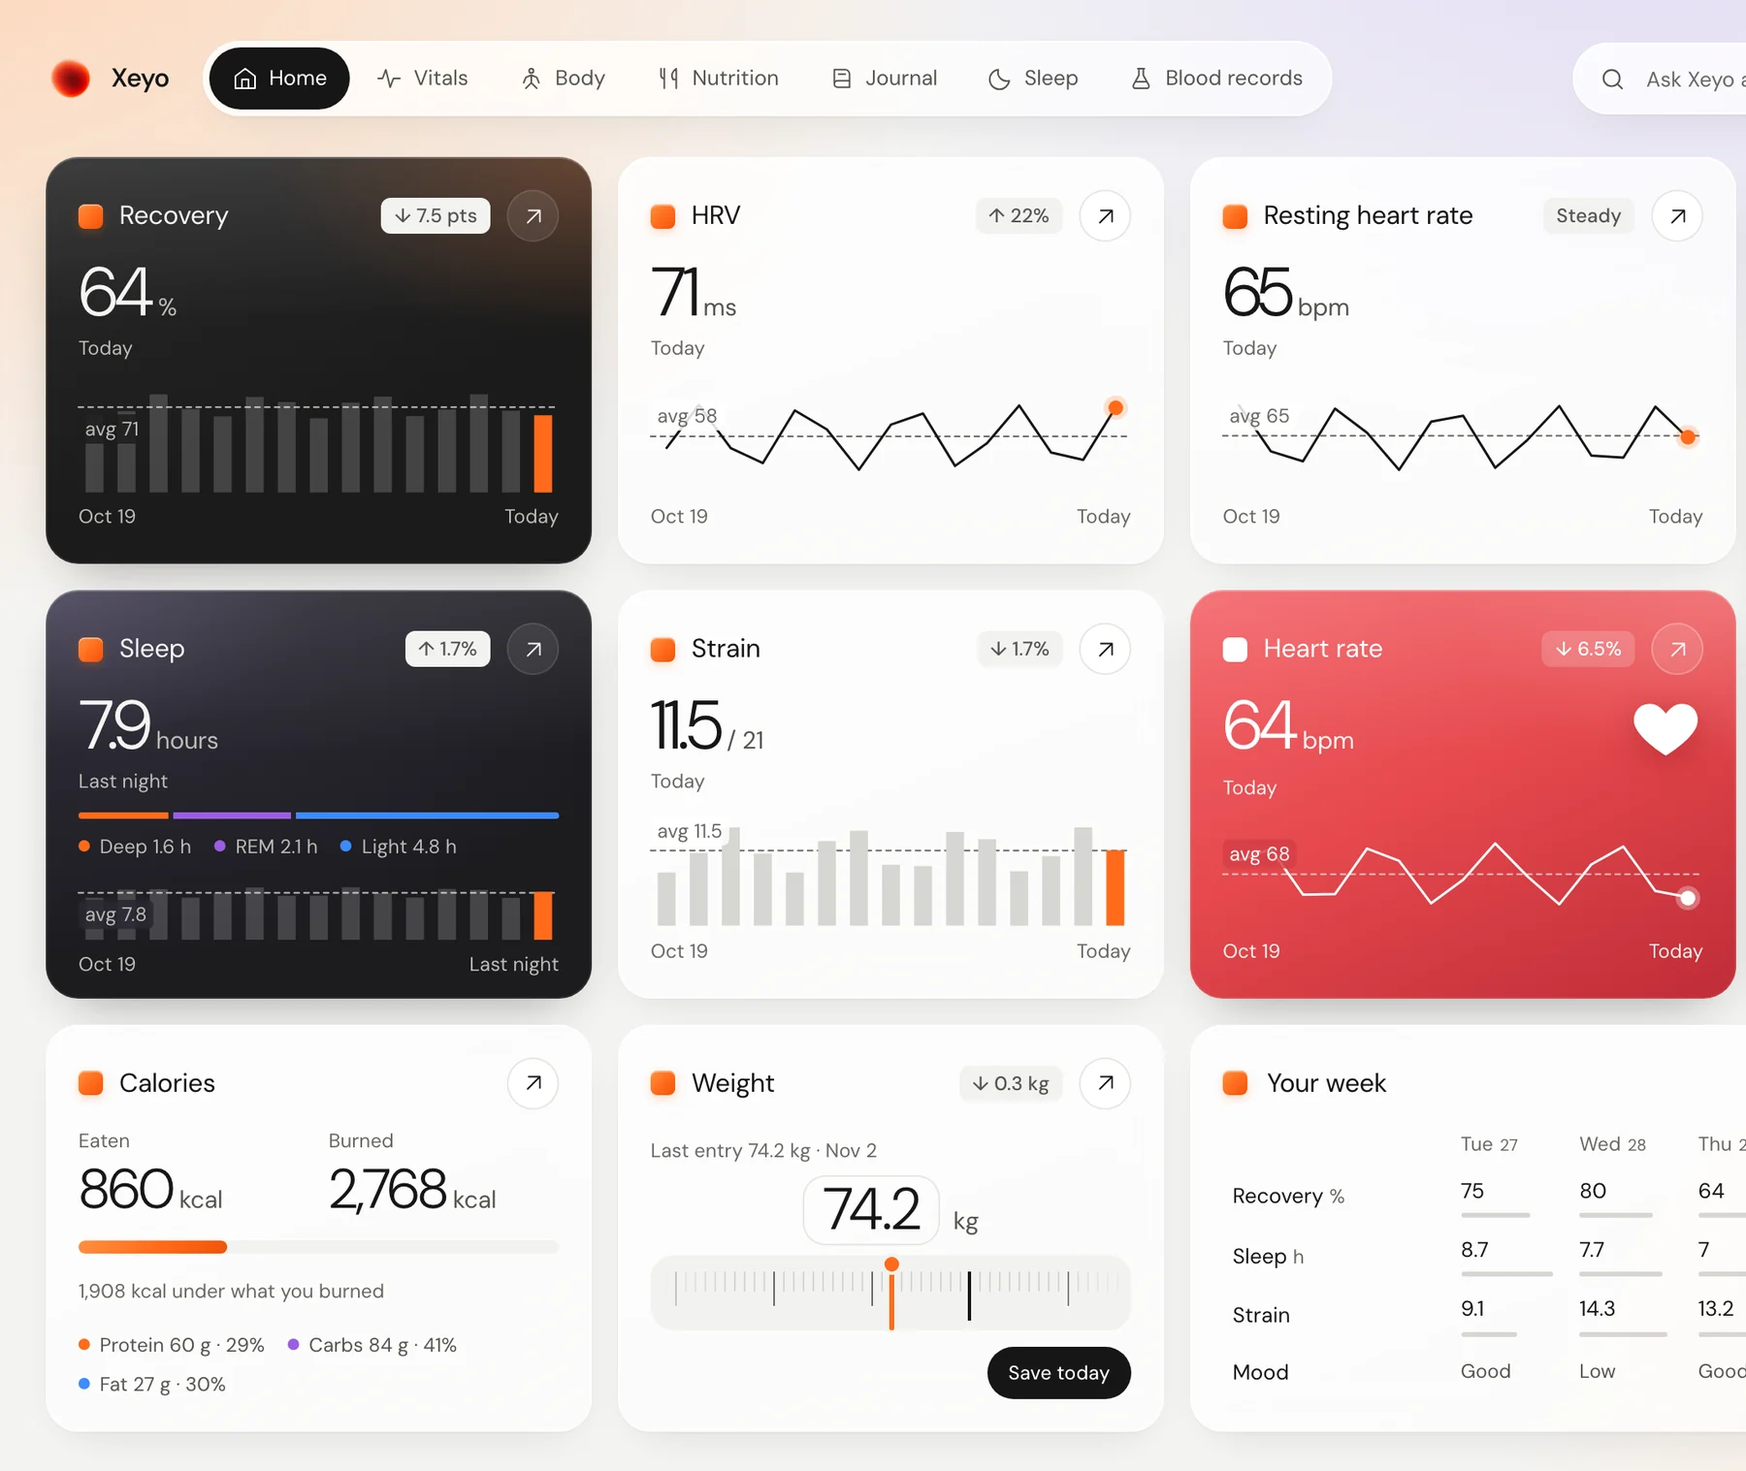
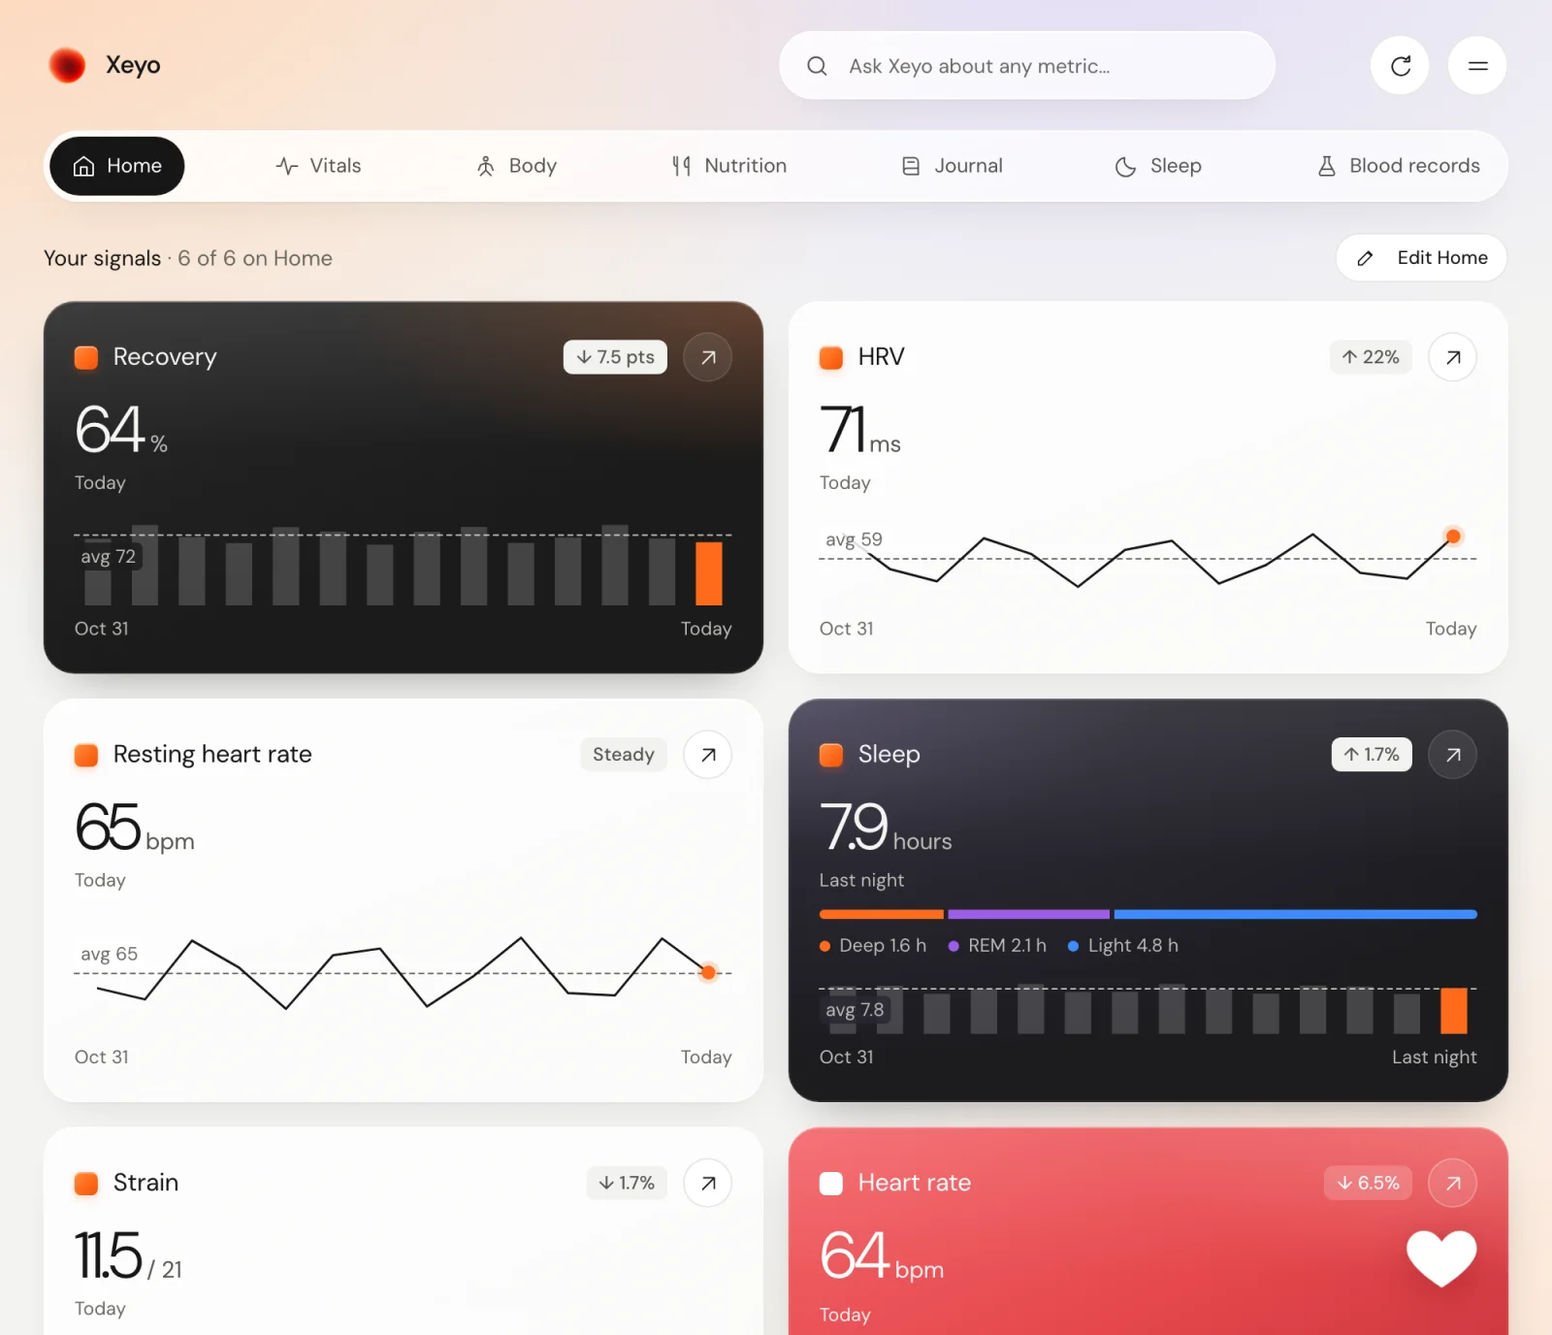
Website shows the real app: the four feature cards carry actual Xeyo screens (Home, Nutrition, Blood records, Ask Xeyo) instead of invented dark boards; example numbers match the app

diff --git a/landing/index.html b/landing/index.html
@@ -223,11 +223,11 @@ location.replace('https://app.xeyo.ai'+location.pathname+q+h)})();
             <div class="bars" aria-hidden="true"><i style="--h:.72"></i><i style="--h:.58"></i><i style="--h:.81"></i><i style="--h:.64"></i><i style="--h:.42"></i><i style="--h:.55"></i><i style="--h:.86"></i><i class="now" style="--h:.66"></i></div>
             <p class="cell-foot">Your normal is 72%</p>
           </div>
-          <div class="cell" role="img" aria-label="Example: 1,540 kcal eaten today, 97 grams of protein">
+          <div class="cell" role="img" aria-label="Example: 1,500 kcal eaten today, 102 grams of protein">
             <p class="cell-k">Eaten today</p>
-            <p class="cell-num">1,540<small>kcal</small></p>
-            <div class="meter" aria-hidden="true"><i style="--f:.56"></i></div>
-            <p class="cell-foot">97 g protein · 2,768 burned</p>
+            <p class="cell-num">1,500<small>kcal</small></p>
+            <div class="meter" aria-hidden="true"><i style="--f:.54"></i></div>
+            <p class="cell-foot">102 g protein · 2,768 burned</p>
           </div>
           <div class="cell" role="img" aria-label="Example: vitamin D 22 nanograms per millilitre, below the lab's range of 30 to 100">
             <p class="cell-k">Vitamin D</p>
@@ -293,7 +293,7 @@ location.replace('https://app.xeyo.ai'+location.pathname+q+h)})();
           <div class="chip-ui lg list">
             <p><span>Recovery</span><b>64%</b></p>
             <p><span>Sleep</span><b>7.9 h</b></p>
-            <p><span>Eaten</span><b>1,540 kcal</b></p>
+            <p><span>Eaten</span><b>1,500 kcal</b></p>
             <p><span>Vitamin D</span><b>22 ng/mL</b></p>
           </div>
         </div>
@@ -316,22 +316,9 @@ location.replace('https://app.xeyo.ai'+location.pathname+q+h)})();
           <h3 id="fh-1">Wearable data you can read at a glance</h3>
           <p>Sleep, recovery, HRV and strain, each next to your own 30-day normal, in plain words.</p>
         </div>
-        <figure class="feat-shot board lg" aria-label="Example: last night's sleep and this morning's readings">
-          <p class="board-head"><span>Last night · Monday</span><span class="tag">Example</span></p>
-          <div class="board-main">
-            <div>
-              <p class="big">7.9<small>hours asleep</small></p>
-              <p class="note">8 minutes more than your normal</p>
-              <div class="stages" aria-hidden="true"><i style="--f:.2"></i><i style="--f:.27"></i><i style="--f:.53"></i></div>
-              <ul class="legend"><li>Deep 1.6 h</li><li>REM 2.1 h</li><li>Light 4.2 h</li></ul>
-            </div>
-            <div class="nights" aria-hidden="true"><i style="--h:.78"></i><i style="--h:.62"></i><i style="--h:.84"></i><i style="--h:.7"></i><i style="--h:.55"></i><i style="--h:.9"></i><i style="--h:.74"></i><i style="--h:.8"></i><i style="--h:.66"></i><i style="--h:.88"></i><i style="--h:.72"></i><i style="--h:.6"></i><i style="--h:.82"></i><i class="now" style="--h:.86"></i></div>
-          </div>
-          <ul class="tiles3">
-            <li><span>Recovery</span><b>64%</b><em>Normal 72%</em></li>
-            <li><span>HRV</span><b>71 ms</b><em>22% above normal</em></li>
-            <li><span>Resting heart rate</span><b>65 bpm</b><em>Steady</em></li>
-          </ul>
+        <figure class="feat-shot app-shot">
+          <picture><source media="(max-width: 760px)" srcset="/img/app-home-m.webp" width="780" height="1400"><img src="/img/app-home.webp" alt="The Xeyo Home screen with example data: recovery 64%, HRV 71 ms, resting heart rate 65 bpm, 7.9 hours of sleep, strain 11.5 and heart rate 64 bpm, each with a two-week chart and its average." width="1600" height="1376" loading="lazy" decoding="async"></picture>
+          <figcaption class="tag">Example data</figcaption>
         </figure>
     </div>
   </article>
@@ -344,28 +331,9 @@ location.replace('https://app.xeyo.ai'+location.pathname+q+h)})();
           <h3 id="fh-2">The nutrition your wearable app leaves out</h3>
           <p>Describe a meal, say it or snap it. See what you ate next to what you burned.</p>
         </div>
-        <figure class="feat-shot board lg" aria-label="Example: a meal logged from one sentence, and the day's totals">
-          <p class="board-head"><span>Nutrition · today</span><span class="tag">Example</span></p>
-          <div class="board-split">
-            <div class="meal">
-              <p class="msg me">Salmon poke bowl with avocado</p>
-              <div class="logged">
-                <p class="logged-name">Salmon poke bowl</p>
-                <p class="big">680<small>kcal</small></p>
-                <ul class="macro-row"><li><b>37 g</b>Protein</li><li><b>65 g</b>Carbs</li><li><b>31 g</b>Fat</li></ul>
-              </div>
-            </div>
-            <div class="day">
-              <p class="day-k">Eaten</p><p class="big">1,540<small>kcal</small></p>
-              <div class="burn" aria-hidden="true"><i style="--f:.56"></i></div>
-              <p class="note">Burned 2,768 kcal · 1,228 under</p>
-              <ul class="macros big-macros" aria-hidden="true">
-                <li style="--w:.26"><span>Protein</span><b>97 g</b></li>
-                <li style="--w:.40"><span>Carbs</span><b>149 g</b></li>
-                <li style="--w:.35"><span>Fat</span><b>58 g</b></li>
-              </ul>
-            </div>
-          </div>
+        <figure class="feat-shot app-shot">
+          <picture><source media="(max-width: 760px)" srcset="/img/app-food-m.webp" width="780" height="1400"><img src="/img/app-food.webp" alt="The Xeyo Nutrition screen with example data: a box to describe a meal, a daily balance of 1,500 kcal with protein, carbs and fat, and a food journal of three meals." width="1600" height="1376" loading="lazy" decoding="async"></picture>
+          <figcaption class="tag">Example data</figcaption>
         </figure>
     </div>
   </article>
@@ -378,13 +346,9 @@ location.replace('https://app.xeyo.ai'+location.pathname+q+h)})();
           <h3 id="fh-3">Blood work you can actually read</h3>
           <p>Every marker against the lab's range, with how it has moved since your last test.</p>
         </div>
-        <figure class="feat-shot board lg" aria-label="Example: three blood markers against the lab's range">
-          <p class="board-head"><span>Blood results · Sep 14</span><span class="tag">Example</span></p>
-          <ul class="markers">
-            <li><div><b>Vitamin D</b><span class="flag">Below range</span></div><p class="big">22<small>ng/mL</small></p><div class="range" aria-hidden="true"><i style="--at:.06"></i></div><p class="note">Lab range 30 to 100 · first result</p></li>
-            <li><div><b>Ferritin</b><span class="ok-t">In range</span></div><p class="big">84<small>ng/mL</small></p><div class="range" aria-hidden="true"><i style="--at:.17"></i></div><p class="note">Lab range 30 to 400 · up 23 since March</p></li>
-            <li><div><b>HbA1c</b><span class="ok-t">In range</span></div><p class="big">5.2<small>%</small></p><div class="range" aria-hidden="true"><i style="--at:.75"></i></div><p class="note">Lab range 4.0 to 5.6 · unchanged</p></li>
-          </ul>
+        <figure class="feat-shot app-shot">
+          <picture><source media="(max-width: 760px)" srcset="/img/app-blood-m.webp" width="780" height="1400"><img src="/img/app-blood.webp" alt="The Xeyo Blood records screen with example data: ferritin 84 ng/mL within the lab reference, up 23 since March, and vitamin D 22 ng/mL below the reference of 30 to 100." width="1600" height="1376" loading="lazy" decoding="async"></picture>
+          <figcaption class="tag">Example data</figcaption>
         </figure>
     </div>
   </article>
@@ -397,14 +361,9 @@ location.replace('https://app.xeyo.ai'+location.pathname+q+h)})();
           <h3 id="fh-4">An AI that knows your numbers</h3>
           <p>Ask why you slept badly or what to eat tonight. It answers from your own data.</p>
         </div>
-        <figure class="feat-shot board lg chat-shot" aria-label="Example conversation with Ask Xeyo">
-          <p class="board-head"><span>Ask Xeyo</span><span class="tag">Example</span></p>
-          <div class="chat">
-            <p class="msg me">Why do I feel so tired today?</p>
-            <p class="msg xeyo">You slept 6.2 hours, 1.6 hours under your normal, and your HRV is 14% below your 30-day average. You also ate about 900 kcal less than you burned yesterday. An easy day and an earlier night should help.</p>
-            <p class="msg me">What should I eat tonight?</p>
-            <p class="msg xeyo">You're at 52 g of protein today, well under your usual 95 g. Something like salmon with rice and greens would close most of that gap.</p>
-          </div>
+        <figure class="feat-shot app-shot">
+          <picture><source media="(max-width: 760px)" srcset="/img/app-ask-m.webp" width="780" height="1400"><img src="/img/app-ask.webp" alt="Ask Xeyo with an example conversation: asked why you feel tired, it answers from last night's 6.2 hours of sleep, a lower HRV and yesterday's calories, then suggests a dinner to close a protein gap." width="1600" height="1376" loading="lazy" decoding="async"></picture>
+          <figcaption class="tag">Example data</figcaption>
         </figure>
     </div>
   </article>

diff --git a/landing/work/index.template.html b/landing/work/index.template.html
@@ -110,11 +110,11 @@ location.replace('https://app.xeyo.ai'+location.pathname+q+h)})();
             <div class="bars" aria-hidden="true"><i style="--h:.72"></i><i style="--h:.58"></i><i style="--h:.81"></i><i style="--h:.64"></i><i style="--h:.42"></i><i style="--h:.55"></i><i style="--h:.86"></i><i class="now" style="--h:.66"></i></div>
             <p class="cell-foot">Your normal is 72%</p>
           </div>
-          <div class="cell" role="img" aria-label="Example: 1,540 kcal eaten today, 97 grams of protein">
+          <div class="cell" role="img" aria-label="Example: 1,500 kcal eaten today, 102 grams of protein">
             <p class="cell-k">Eaten today</p>
-            <p class="cell-num">1,540<small>kcal</small></p>
-            <div class="meter" aria-hidden="true"><i style="--f:.56"></i></div>
-            <p class="cell-foot">97 g protein · 2,768 burned</p>
+            <p class="cell-num">1,500<small>kcal</small></p>
+            <div class="meter" aria-hidden="true"><i style="--f:.54"></i></div>
+            <p class="cell-foot">102 g protein · 2,768 burned</p>
           </div>
           <div class="cell" role="img" aria-label="Example: vitamin D 22 nanograms per millilitre, below the lab's range of 30 to 100">
             <p class="cell-k">Vitamin D</p>
@@ -180,7 +180,7 @@ location.replace('https://app.xeyo.ai'+location.pathname+q+h)})();
           <div class="chip-ui lg list">
             <p><span>Recovery</span><b>64%</b></p>
             <p><span>Sleep</span><b>7.9 h</b></p>
-            <p><span>Eaten</span><b>1,540 kcal</b></p>
+            <p><span>Eaten</span><b>1,500 kcal</b></p>
             <p><span>Vitamin D</span><b>22 ng/mL</b></p>
           </div>
         </div>
@@ -203,22 +203,9 @@ location.replace('https://app.xeyo.ai'+location.pathname+q+h)})();
           <h3 id="fh-1">Wearable data you can read at a glance</h3>
           <p>Sleep, recovery, HRV and strain, each next to your own 30-day normal, in plain words.</p>
         </div>
-        <figure class="feat-shot board lg" aria-label="Example: last night's sleep and this morning's readings">
-          <p class="board-head"><span>Last night · Monday</span><span class="tag">Example</span></p>
-          <div class="board-main">
-            <div>
-              <p class="big">7.9<small>hours asleep</small></p>
-              <p class="note">8 minutes more than your normal</p>
-              <div class="stages" aria-hidden="true"><i style="--f:.2"></i><i style="--f:.27"></i><i style="--f:.53"></i></div>
-              <ul class="legend"><li>Deep 1.6 h</li><li>REM 2.1 h</li><li>Light 4.2 h</li></ul>
-            </div>
-            <div class="nights" aria-hidden="true"><i style="--h:.78"></i><i style="--h:.62"></i><i style="--h:.84"></i><i style="--h:.7"></i><i style="--h:.55"></i><i style="--h:.9"></i><i style="--h:.74"></i><i style="--h:.8"></i><i style="--h:.66"></i><i style="--h:.88"></i><i style="--h:.72"></i><i style="--h:.6"></i><i style="--h:.82"></i><i class="now" style="--h:.86"></i></div>
-          </div>
-          <ul class="tiles3">
-            <li><span>Recovery</span><b>64%</b><em>Normal 72%</em></li>
-            <li><span>HRV</span><b>71 ms</b><em>22% above normal</em></li>
-            <li><span>Resting heart rate</span><b>65 bpm</b><em>Steady</em></li>
-          </ul>
+        <figure class="feat-shot app-shot">
+          <picture><source media="(max-width: 760px)" srcset="/img/app-home-m.webp" width="780" height="1400"><img src="/img/app-home.webp" alt="The Xeyo Home screen with example data: recovery 64%, HRV 71 ms, resting heart rate 65 bpm, 7.9 hours of sleep, strain 11.5 and heart rate 64 bpm, each with a two-week chart and its average." width="1600" height="1376" loading="lazy" decoding="async"></picture>
+          <figcaption class="tag">Example data</figcaption>
         </figure>
     </div>
   </article>
@@ -231,28 +218,9 @@ location.replace('https://app.xeyo.ai'+location.pathname+q+h)})();
           <h3 id="fh-2">The nutrition your wearable app leaves out</h3>
           <p>Describe a meal, say it or snap it. See what you ate next to what you burned.</p>
         </div>
-        <figure class="feat-shot board lg" aria-label="Example: a meal logged from one sentence, and the day's totals">
-          <p class="board-head"><span>Nutrition · today</span><span class="tag">Example</span></p>
-          <div class="board-split">
-            <div class="meal">
-              <p class="msg me">Salmon poke bowl with avocado</p>
-              <div class="logged">
-                <p class="logged-name">Salmon poke bowl</p>
-                <p class="big">680<small>kcal</small></p>
-                <ul class="macro-row"><li><b>37 g</b>Protein</li><li><b>65 g</b>Carbs</li><li><b>31 g</b>Fat</li></ul>
-              </div>
-            </div>
-            <div class="day">
-              <p class="day-k">Eaten</p><p class="big">1,540<small>kcal</small></p>
-              <div class="burn" aria-hidden="true"><i style="--f:.56"></i></div>
-              <p class="note">Burned 2,768 kcal · 1,228 under</p>
-              <ul class="macros big-macros" aria-hidden="true">
-                <li style="--w:.26"><span>Protein</span><b>97 g</b></li>
-                <li style="--w:.40"><span>Carbs</span><b>149 g</b></li>
-                <li style="--w:.35"><span>Fat</span><b>58 g</b></li>
-              </ul>
-            </div>
-          </div>
+        <figure class="feat-shot app-shot">
+          <picture><source media="(max-width: 760px)" srcset="/img/app-food-m.webp" width="780" height="1400"><img src="/img/app-food.webp" alt="The Xeyo Nutrition screen with example data: a box to describe a meal, a daily balance of 1,500 kcal with protein, carbs and fat, and a food journal of three meals." width="1600" height="1376" loading="lazy" decoding="async"></picture>
+          <figcaption class="tag">Example data</figcaption>
         </figure>
     </div>
   </article>
@@ -265,13 +233,9 @@ location.replace('https://app.xeyo.ai'+location.pathname+q+h)})();
           <h3 id="fh-3">Blood work you can actually read</h3>
           <p>Every marker against the lab's range, with how it has moved since your last test.</p>
         </div>
-        <figure class="feat-shot board lg" aria-label="Example: three blood markers against the lab's range">
-          <p class="board-head"><span>Blood results · Sep 14</span><span class="tag">Example</span></p>
-          <ul class="markers">
-            <li><div><b>Vitamin D</b><span class="flag">Below range</span></div><p class="big">22<small>ng/mL</small></p><div class="range" aria-hidden="true"><i style="--at:.06"></i></div><p class="note">Lab range 30 to 100 · first result</p></li>
-            <li><div><b>Ferritin</b><span class="ok-t">In range</span></div><p class="big">84<small>ng/mL</small></p><div class="range" aria-hidden="true"><i style="--at:.17"></i></div><p class="note">Lab range 30 to 400 · up 23 since March</p></li>
-            <li><div><b>HbA1c</b><span class="ok-t">In range</span></div><p class="big">5.2<small>%</small></p><div class="range" aria-hidden="true"><i style="--at:.75"></i></div><p class="note">Lab range 4.0 to 5.6 · unchanged</p></li>
-          </ul>
+        <figure class="feat-shot app-shot">
+          <picture><source media="(max-width: 760px)" srcset="/img/app-blood-m.webp" width="780" height="1400"><img src="/img/app-blood.webp" alt="The Xeyo Blood records screen with example data: ferritin 84 ng/mL within the lab reference, up 23 since March, and vitamin D 22 ng/mL below the reference of 30 to 100." width="1600" height="1376" loading="lazy" decoding="async"></picture>
+          <figcaption class="tag">Example data</figcaption>
         </figure>
     </div>
   </article>
@@ -284,14 +248,9 @@ location.replace('https://app.xeyo.ai'+location.pathname+q+h)})();
           <h3 id="fh-4">An AI that knows your numbers</h3>
           <p>Ask why you slept badly or what to eat tonight. It answers from your own data.</p>
         </div>
-        <figure class="feat-shot board lg chat-shot" aria-label="Example conversation with Ask Xeyo">
-          <p class="board-head"><span>Ask Xeyo</span><span class="tag">Example</span></p>
-          <div class="chat">
-            <p class="msg me">Why do I feel so tired today?</p>
-            <p class="msg xeyo">You slept 6.2 hours, 1.6 hours under your normal, and your HRV is 14% below your 30-day average. You also ate about 900 kcal less than you burned yesterday. An easy day and an earlier night should help.</p>
-            <p class="msg me">What should I eat tonight?</p>
-            <p class="msg xeyo">You're at 52 g of protein today, well under your usual 95 g. Something like salmon with rice and greens would close most of that gap.</p>
-          </div>
+        <figure class="feat-shot app-shot">
+          <picture><source media="(max-width: 760px)" srcset="/img/app-ask-m.webp" width="780" height="1400"><img src="/img/app-ask.webp" alt="Ask Xeyo with an example conversation: asked why you feel tired, it answers from last night's 6.2 hours of sleep, a lower HRV and yesterday's calories, then suggests a dinner to close a protein gap." width="1600" height="1376" loading="lazy" decoding="async"></picture>
+          <figcaption class="tag">Example data</figcaption>
         </figure>
     </div>
   </article>

diff --git a/landing/styles.css b/landing/styles.css
@@ -217,6 +217,12 @@ h1{font-size:clamp(46px,6.2vw,92px);font-weight:400;line-height:.98;letter-spaci
 .feat-copy h3{font-size:clamp(30px,3.2vw,46px);font-weight:400;line-height:1.05;letter-spacing:-.035em;text-wrap:balance}
 .feat-copy p:not(.feat-k){margin-top:16px;font-size:17px;color:var(--w2);max-width:34ch}
 .feat-shot{border-radius:26px}
+/* The real app, as members see it: a light screen in a thin glass bezel on the night card. */
+.app-shot{display:grid;gap:14px;justify-items:end}
+.app-shot picture{display:block;width:100%;border-radius:22px;overflow:hidden;background:#f3f1ee;box-shadow:0 0 0 1px rgb(255 255 255 / .28),0 0 0 8px rgb(255 255 255 / .07),0 44px 90px -34px rgb(0 0 0 / .9)}
+.app-shot img{width:100%;height:auto}
+.app-shot .tag{color:var(--w2)}
+@media (max-width:760px){.app-shot{justify-items:center}.app-shot picture{max-width:340px;border-radius:26px}}
 .board{display:grid;gap:16px;padding:clamp(18px,2vw,26px)}
 .board-head{display:flex;justify-content:space-between;align-items:center;font-size:13px;font-weight:500;color:var(--white)}
 .board .big{font-size:clamp(40px,3.6vw,54px);font-weight:300;line-height:1;letter-spacing:-.045em}
